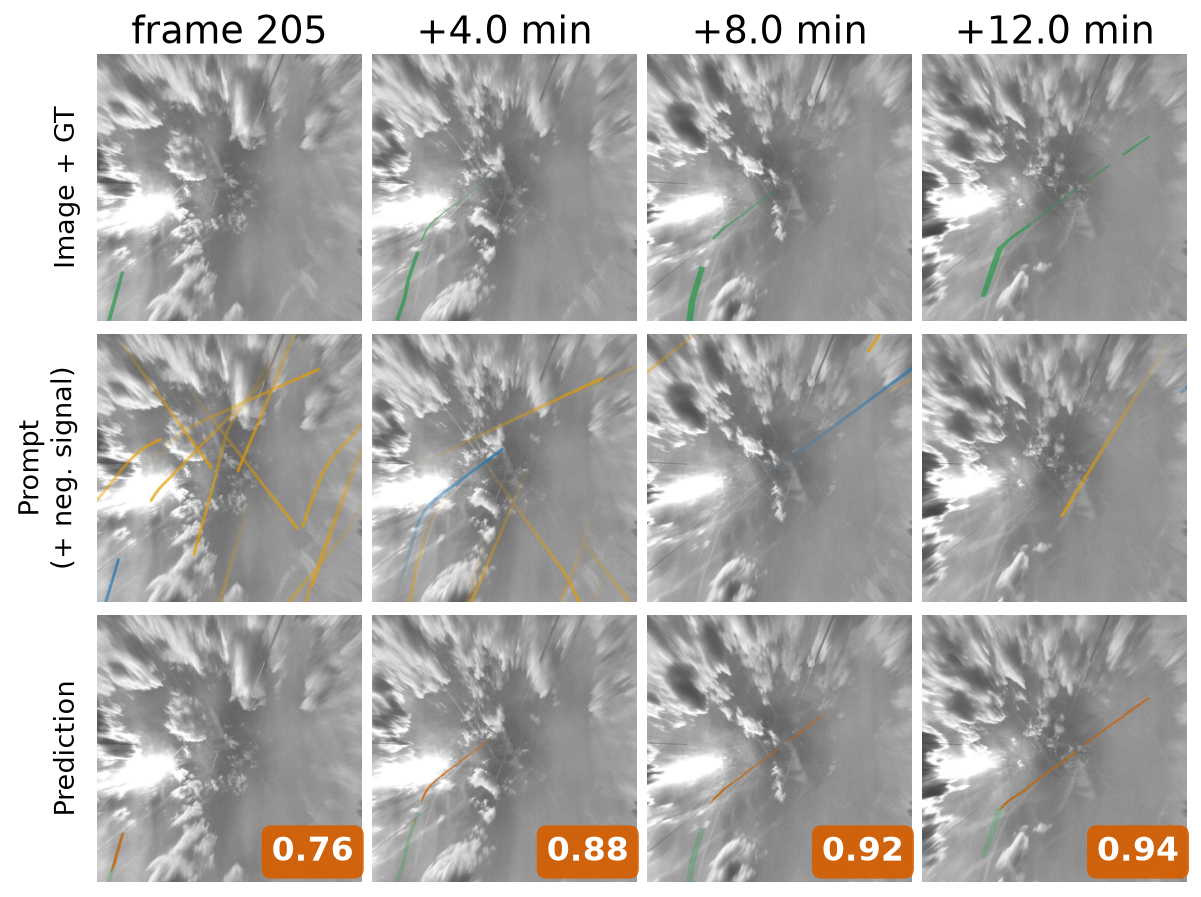
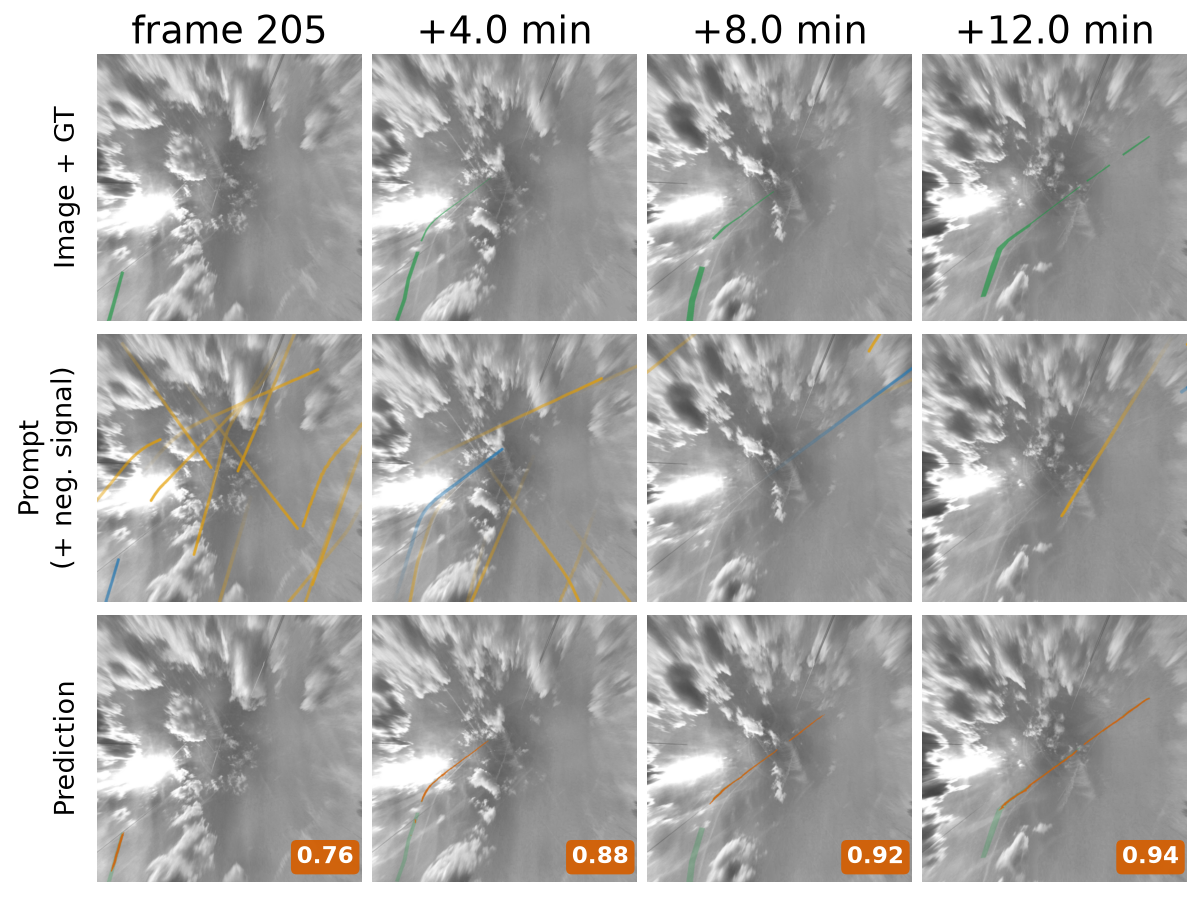
Self-audit fixes: modification-count consistency, figure layout, latency detail
- Fig. 1 caption and Conclusion now both list all five SAM2 modifications
  (the decoder-bypass removal was missing from both), and the caption no
  longer omits the binary variant's 1-minute window.
- Failure-mode prose aligned with the mined evidence: wind drift manifests
  as prompt-following over-segmentation, not only rejection.
- Detection-latency claim strengthened after verifying no negative delays
  were dropped (90th percentile: one minute).
- fig_examples score badges scaled to cell size; fig_prompts white band
  between rows removed.

Claude-Session: https://claude.ai/code/session_01MWrTsn3XEDWJJmcQemnJxM

diff --git a/paper/TRAILVISION_journal.tex b/paper/TRAILVISION_journal.tex
@@ -80,7 +80,7 @@ Existing approaches treat these as a sequential pipeline~\cite{chevallier2023lin
 \begin{figure}[!tbp]
 \centering
 \includegraphics[width=\linewidth]{figures/fig_architecture.png}
-\caption{System overview. ADS-B positions and ERA5 wind fields feed the CoCiP contrail lifecycle model, whose predicted trajectories are projected into image coordinates to produce per-flight spatial masks. Three prompt encodings are evaluated: binary, age-weighted, and age-weighted with negative signal layering, at two age windows (5 and 10~min). An adapted Segment Anything Model 2 (SAM2) model (with re-enabled memory attention, frame-distance temporal encoding, softened memory sigmoid, and dice-dominant loss rebalancing) receives these dense per-frame prompts and outputs per-flight segmentation masks.}
+\caption{System overview. ADS-B positions and ERA5 wind fields feed the CoCiP contrail lifecycle model, whose predicted trajectories are projected into image coordinates to produce per-flight spatial masks. Three prompt encodings are evaluated: binary (1-minute window), and age-weighted with or without negative-signal layering (5- and 10-minute windows). An adapted Segment Anything Model 2 (SAM2) model---with re-enabled memory attention, frame-distance temporal encoding, a softened memory sigmoid, dice-dominant loss rebalancing, and a disabled mask-decoder bypass---receives these dense per-frame prompts and outputs per-flight segmentation masks.}
 \label{fig:system_overview}
 \end{figure}
 
@@ -462,7 +462,7 @@ The previous subsections compared variants against each other. Here we examine t
 
 \paragraph{Temporal consistency.} Fragmentation of 1.005 means each ground truth contrail is covered by essentially a single prediction identity (the small excess above 1.0 reflects rare frame-boundary effects where the last few frames of a fading contrail are picked up under a second short-lived prediction)---a direct consequence of the prompt-based architecture where each flight maintains its identity across all frames without appearance-based re-identification. In a conventional VOS pipeline, fragmentation would be higher because identity must be re-established at each frame through appearance matching, which fails when contrails change appearance (spreading, fading, changing brightness with sun angle). Our prompt-based identity is immune to these visual changes.
 
-Track completeness of 0.730 means the model maintains detection, on average, across nearly three-quarters of a contrail's visible lifetime. Detection is also prompt: among flights the best variant ever attributes correctly, the median delay between a contrail's first annotated frame and its first correct detection is zero frames, and 96.6\% are confirmed within two minutes of first visibility---relevant for the envisaged monitoring application, where feedback about an avoidance maneuver is most useful while the aircraft is still in the sector. The remaining quarter corresponds to frames where model confidence drops below threshold, which occurs in three situations: (1)~the contrail becomes very faint, producing weak visual evidence; (2)~wind advection errors displace the prompt from the actual location by enough pixels that the model cannot find the contrail in the prompted region; or (3)~the contrail's appearance changes abruptly (e.g., sun angle changes) and the model briefly loses confidence before recovering from temporal memory.
+Track completeness of 0.730 means the model maintains detection, on average, across nearly three-quarters of a contrail's visible lifetime. Detection is also prompt: among flights the best variant ever attributes correctly, the median delay between a contrail's first annotated frame and its first correct detection is zero frames, the 90th percentile is one minute, and 96.6\% are confirmed within two minutes of first visibility---relevant for the envisaged monitoring application, where feedback about an avoidance maneuver is most useful while the aircraft is still in the sector. The remaining quarter corresponds to frames where model confidence drops below threshold, which occurs in three situations: (1)~the contrail becomes very faint, producing weak visual evidence; (2)~wind advection errors displace the prompt from the actual location by enough pixels that the model cannot find the contrail in the prompted region; or (3)~the contrail's appearance changes abruptly (e.g., sun angle changes) and the model briefly loses confidence before recovering from temporal memory.
 
 \paragraph{Cross-contamination.} When multiple flights have nearby prompts, the model may segment one flight's contrail under another flight's prompt. Table~\ref{tab:identity} shows that the age gradient cuts high-contamination events by more than half relative to binary, and the negative signal reduces them further at each window (7.4\% of 8{,}672 events for the 5-min negative-signal variant). The remaining contamination is partly a data artifact: in dense airspace, ground truth masks from different flights naturally overlap because contrails spread and merge over time.
 
@@ -477,7 +477,7 @@ We manually categorized the 50 lowest-performing flights (by temporal IoU) from 
 \label{fig:failure_modes}
 \end{figure}
 
-Wind estimation errors cause roughly one-third of failures. ERA5 wind fields miss mesoscale variability, and errors exceeding $\sim$5~m/s displace prompts by tens of pixels from the actual contrail. When displacement exceeds the model's spatial tolerance, the prompt provides misleading guidance and the model either rejects a real contrail (thinking the prompt is wrong) or segments the wrong region.
+Wind estimation errors cause roughly one-third of failures. ERA5 wind fields miss mesoscale variability, and errors exceeding $\sim$5~m/s displace prompts by tens of pixels from the actual contrail. When displacement exceeds the model's spatial tolerance, the prompt provides misleading guidance and the model either rejects a real contrail (treating the mismatch as evidence of absence), or---as in Fig.~\ref{fig:failure_modes}A---traces the drifted prompt itself, producing a confident mask far larger than the visible contrail.
 
 Overlapping prompts cause roughly one-quarter of errors, concentrated in busy airspace where many flights produce nearby contrails. When prompt masks overlap substantially, even the negative signal cannot fully disambiguate boundary pixels. It tells the model that another flight exists, but when two contrails are separated by only a few pixels, correct boundary assignment is beyond the model's spatial resolution.
 
@@ -539,7 +539,7 @@ Contrail detection, tracking, and attribution collapse into a single forward pas
 
 Telling the model how old each part of the contrail is (age-weighted encoding) raises segmentation quality by 22\% relative to flat binary prompts and lifts attribution precision from 89\% to 96\%---the single largest improvement in the ablation. Telling it where competing flights are (the negative signal) adds a further gain and improves attribution recall from 87\% to 90\%. Keeping the age window short (5 rather than 10~minutes) avoids the detection penalty caused by wind-drifted prompts. These two axes---encoding richness and age window---act largely independently, and the best combination (age-weighted with negative signal, 5~min) reaches mAP$_{25{:}75}$ 0.380, 92.6\% detection rate, 96.2\% attribution precision, and 0.730 track completeness.
 
-The SAM2 modifications for dense prompting (memory attention on conditioning frames, frame-distance temporal encoding, soft memory sigmoid, dice-weighted loss) address problems that arise whenever per-frame external prompts replace sparse human annotations. The modifications are not specific to contrails and are expected to transfer to other domains where a non-visual sensor provides per-frame spatial priors of similar density and structure, though retraining on domain-specific data will be required in each case. The prompt itself remains open to enrichment: local relative humidity over ice, persistence probability, and wind shear magnitude are all available from the same ERA5 and CoCiP pipeline, require no additional labeling, and could be embedded as extra prompt channels without any architectural change.
+The SAM2 modifications for dense prompting (memory attention on conditioning frames, frame-distance temporal encoding, soft memory sigmoid, dice-weighted loss, and routing every prompt through the mask decoder) address problems that arise whenever per-frame external prompts replace sparse human annotations. The modifications are not specific to contrails and are expected to transfer to other domains where a non-visual sensor provides per-frame spatial priors of similar density and structure, though retraining on domain-specific data will be required in each case. The prompt itself remains open to enrichment: local relative humidity over ice, persistence probability, and wind shear magnitude are all available from the same ERA5 and CoCiP pipeline, require no additional labeling, and could be embedded as extra prompt channels without any architectural change.
 
 Physical constraints should inform visual recognition before the fact, not validate it afterward. A contrail cannot exist without a flight. Encoding that constraint as a spatial prompt sidesteps an entire class of errors and replaces a three-stage pipeline with a single model. The same logic applies wherever external data constrains where objects can appear. ``Is there an object here?'' is an easier question than ``where are all the objects?''
 

diff --git a/paper/scripts/plot_examples.py b/paper/scripts/plot_examples.py
@@ -285,8 +285,9 @@ def fig_example_sequence(rows, video_id, obj_id, out_dir, name="fig_examples"):
 
         if score is not None:
             badge_kw = {**ps.SCORE_BADGE_KW,
-                        "fontsize": 8,
-                        "bbox": {**ps.SCORE_BADGE_KW["bbox"], "pad": 1.5}}
+                        "fontsize": 5.5,
+                        "bbox": {**ps.SCORE_BADGE_KW["bbox"], "pad": 0.9,
+                                 "boxstyle": "round,pad=0.25"}}
             axes[2, col].text(0.97, 0.05, f"{score:.2f}",
                               transform=axes[2, col].transAxes, **badge_kw)
 

diff --git a/paper/scripts/plot_prompt_comparison.py b/paper/scripts/plot_prompt_comparison.py
@@ -104,7 +104,9 @@ def main():
 
     _w = ps.FIG_W_FULL
     fig, axes2d = plt.subplots(2, 2, figsize=(_w, _w + 0.35),
-                               gridspec_kw={"wspace": 0.04, "hspace": 0.12})
+                               constrained_layout=False)
+    fig.subplots_adjust(left=0.01, right=0.99, top=0.94, bottom=0.01,
+                        wspace=0.04, hspace=0.14)
     axes = axes2d.ravel()
     for ax, panel, letter, title in zip(axes, panels, "ABCD", titles):
         ax.imshow(panel, interpolation="bilinear")